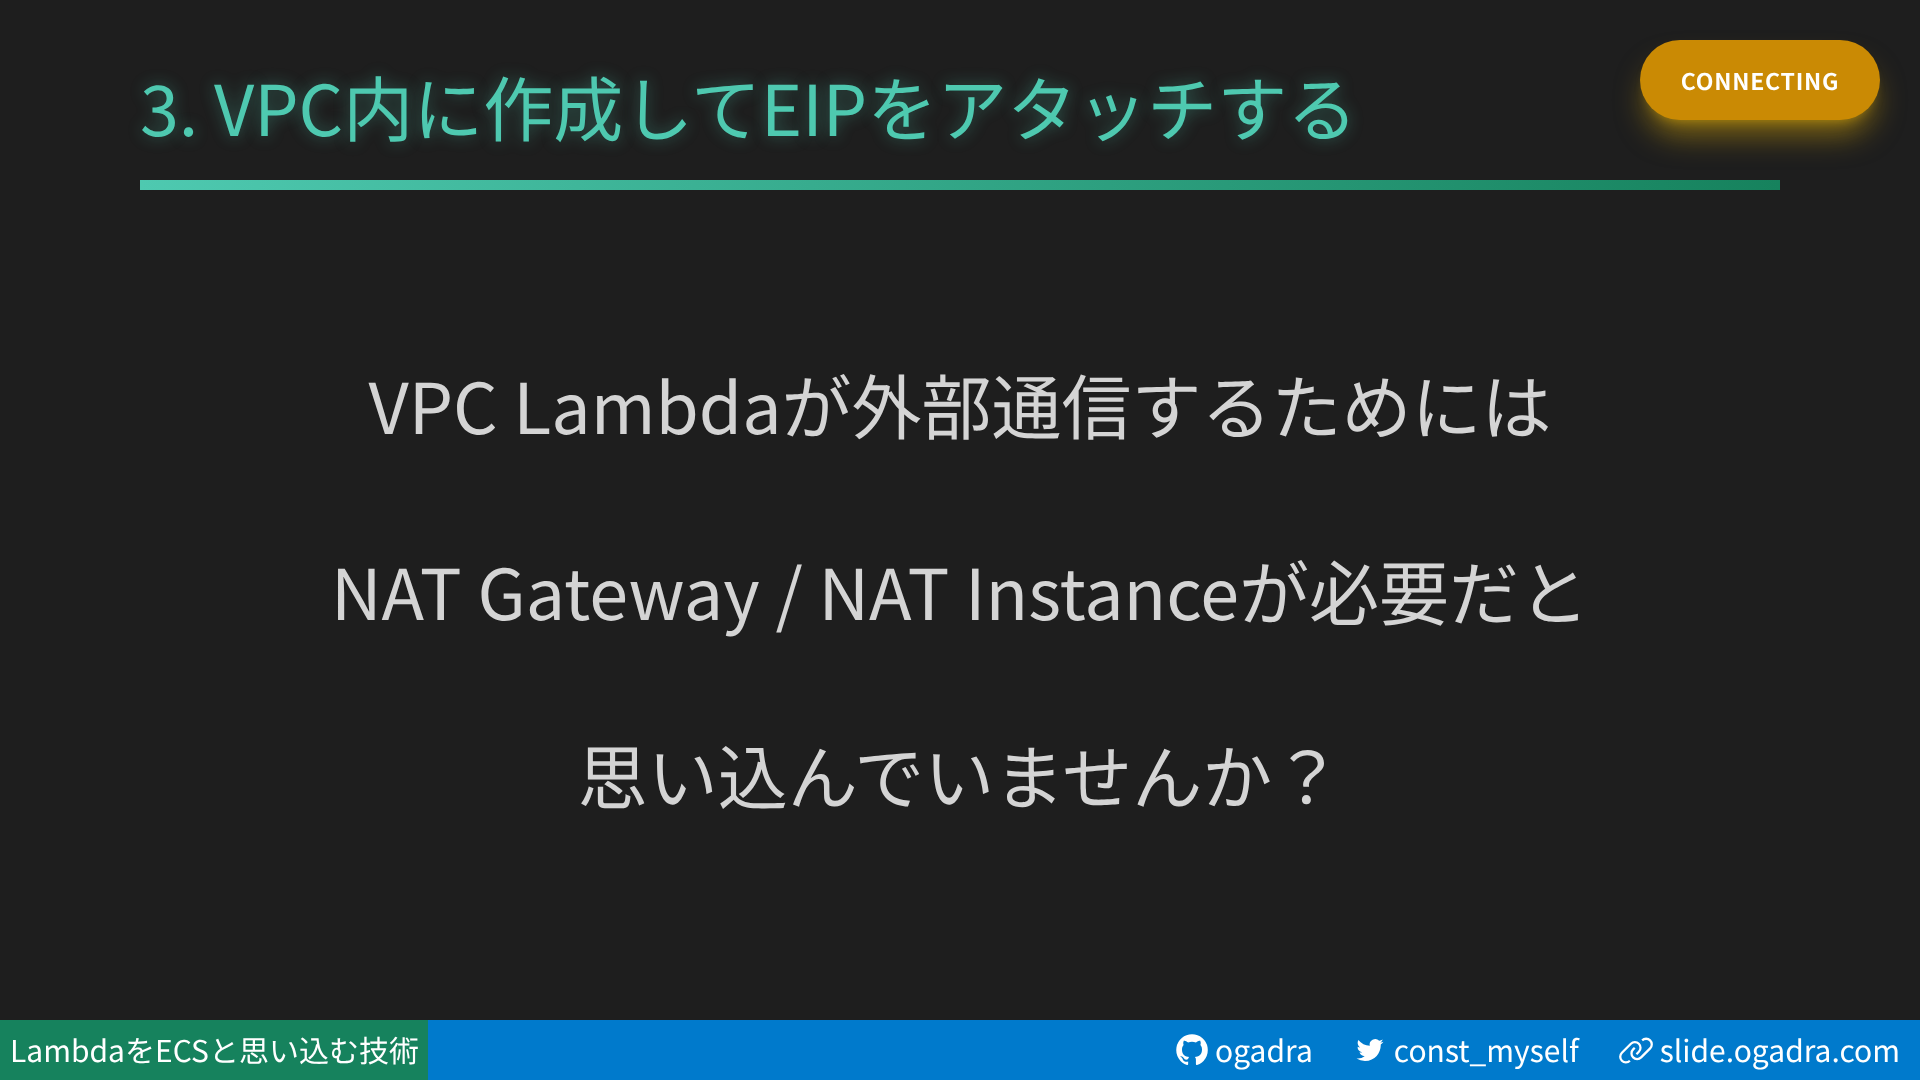
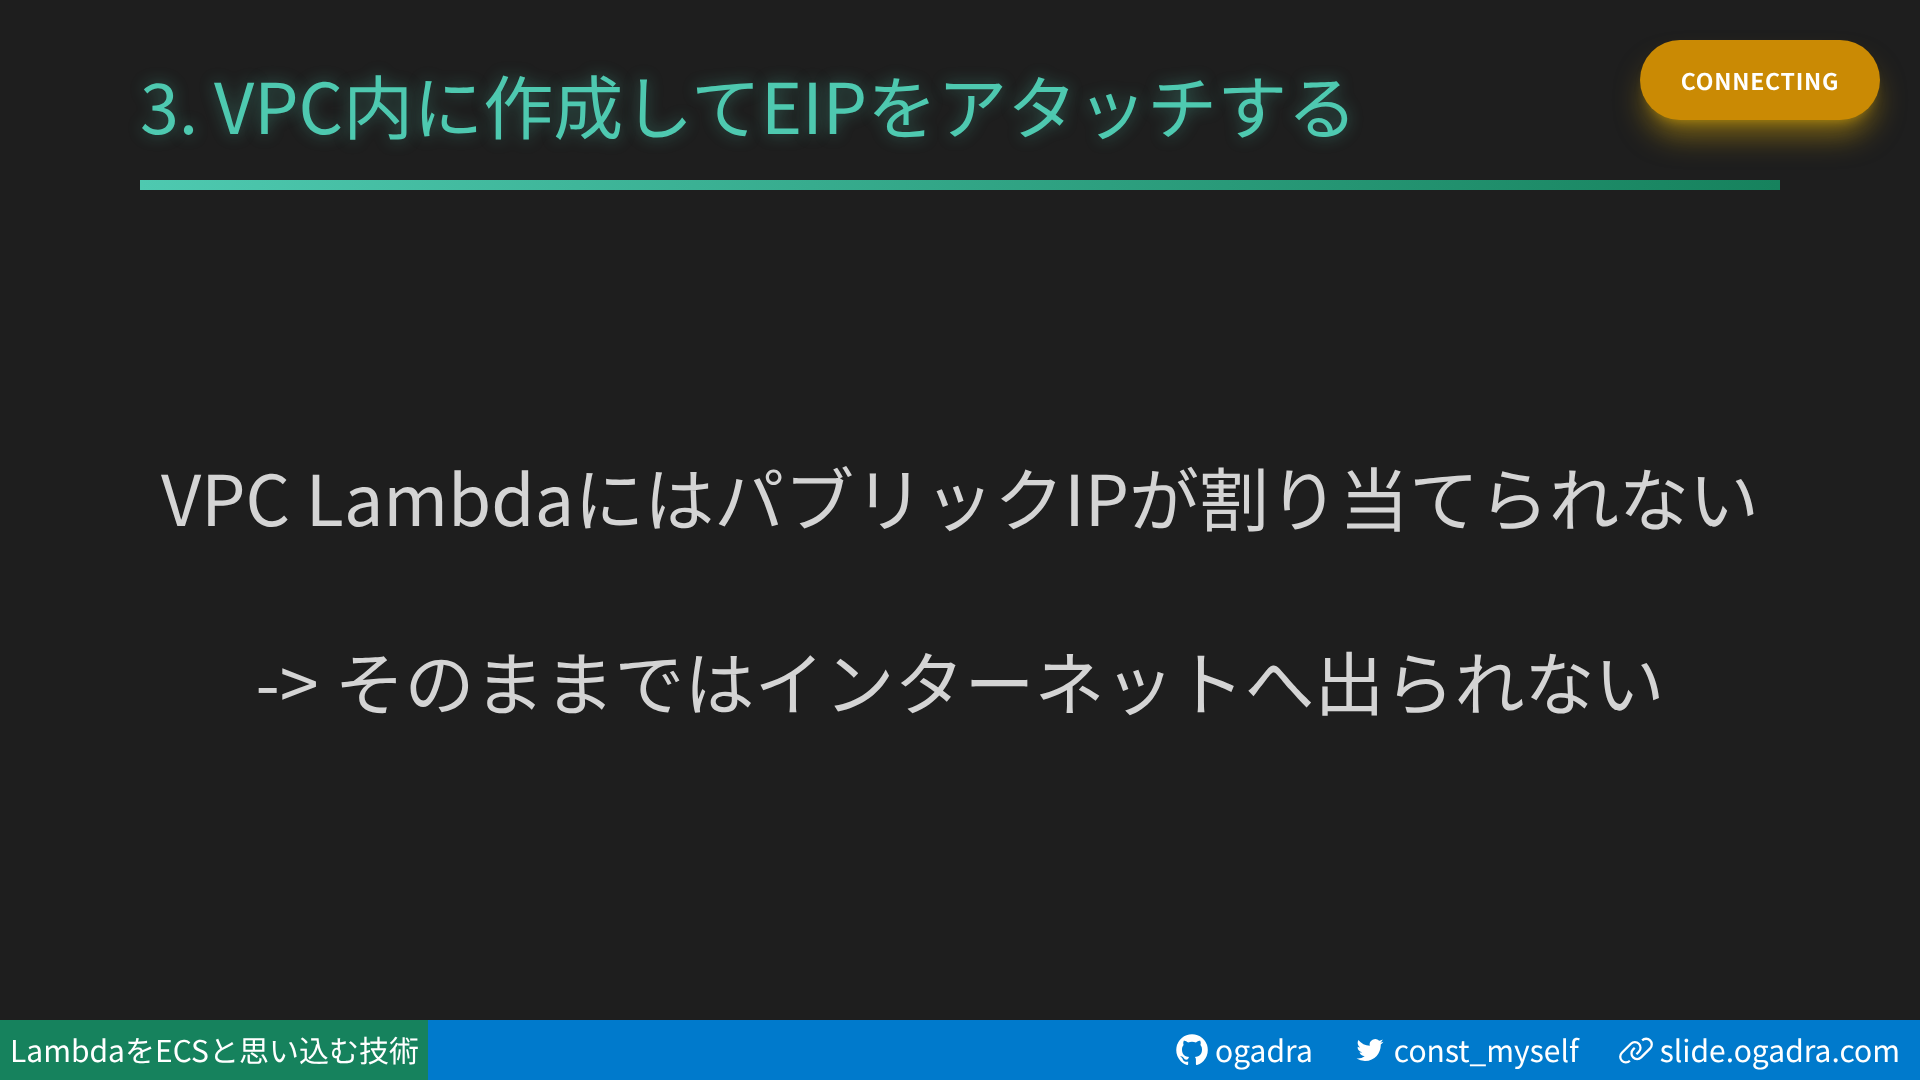
content: add summary slide with three key techniques

diff --git a/slidev/lambda-as-an-ecs-alternative/slides.md b/slidev/lambda-as-an-ecs-alternative/slides.md
@@ -364,13 +364,21 @@ pre code {
 
 ---
 
-## 3. VPC内に作成してEIPをアタッチする
+## まとめ
 
 <div class="center-content">
 
-NAT Gateway / NAT Instanceよりお安く済みます！
+1. **aws-lambda-adapter**でコンテナをそのまま動かす
+2. **Terraform**でECSと同じように管理する
+3. **EIP**をアタッチして外部通信を確保する
 
 </div>
+
+<style>
+li {
+  font-size: 1.8rem !important;
+}
+</style>
 
 ---
 layout: image-x
